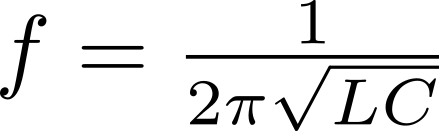
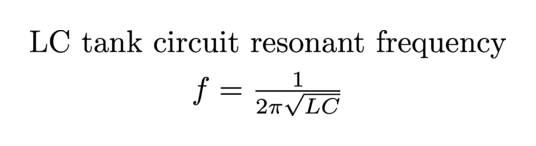
png borders

diff --git a/media/coni.tex b/media/coni.tex
@@ -1,36 +1,32 @@
 \documentclass[fleqn]{article}
 \usepackage[utf8]{inputenc}
+\usepackage{amsmath}
 
-\begin{document}
 \pagestyle{empty}
-\hoffset=-4.5cm
-\voffset=-4cm
 \openup 2pt
-\center
+\begin{document}
 
-\huge
-Coil inductance handbook formulas \bigbreak
-\normalsize
+	\begin{center}
 
-\tiny
-(Units are millimeters) \bigbreak
-\normalsize
+		{\LARGE Coil inductance handbook formulas} \smallbreak
 
-Solenoid coils \smallbreak
-Wheeler25: \enspace $\rm L_H = \frac{5N^2 R^2}{1143R + 1270H}$ \bigbreak
+		{\tiny (Units are millimeters)} \bigbreak
 
-Planar coils \smallbreak
-Terman43: \enspace  $\rm L_P = \frac{5N^2 R^2}{1016R + 1397W}$ \bigbreak
+		Solenoid coils \smallbreak
+		Wheeler25: \enspace $\rm L_H = \frac{5N^2 R^2}{1143R + 1270H}$ \bigbreak
 
-Inverse conical coil \smallbreak
-$\rm{L = \sqrt{(L_H \sin\alpha)^2 + (L_P \cos\alpha)^2}}$ \bigbreak
+		Planar coils \smallbreak
+		Terman43: \enspace  $\rm L_P = \frac{5N^2 R^2}{1016R + 1397W}$ \bigbreak
 
-\endcenter
-Where N is number of turns,  $\alpha$ is slope angle, R is mean radius,
-H is height, and W is the coil width that is a circle radius at the end
-of the winding minus the radius at the beginning of the winding \medbreak
+		Inverse conical coil \smallbreak
+		$\rm{L = \sqrt{(L_H \sin\alpha)^2 + (L_P \cos\alpha)^2}}$ \bigbreak
 
-All measurements are from the center of the wire.
+	\end{center}
 
+	Where N is number of turns,  $\alpha$ is slope angle, R is mean radius,
+	H is height, and W is the coil width that is a circle radius at the end
+	of the winding minus the radius at the beginning of the winding. \medbreak
+
+	All measurements are from the center of the wire.
 
 \end{document}

diff --git a/media/tf.tex b/media/tf.tex
@@ -1,13 +1,12 @@
 \documentclass[fleqn]{article}
 \usepackage[utf8]{inputenc}
 
-\begin{document}
 \pagestyle{empty}
-\hoffset=-7.5cm
-\voffset=-4cm
-\center
+\begin{document}
 
-LC tank circuit resonant frequency \smallbreak
-${f = \frac{1}{2\pi \sqrt{LC}}}$
+	\center
+
+	LC tank circuit resonant frequency \smallbreak
+	${f = \frac{1}{2\pi \sqrt{LC}}}$
 
 \end{document}
